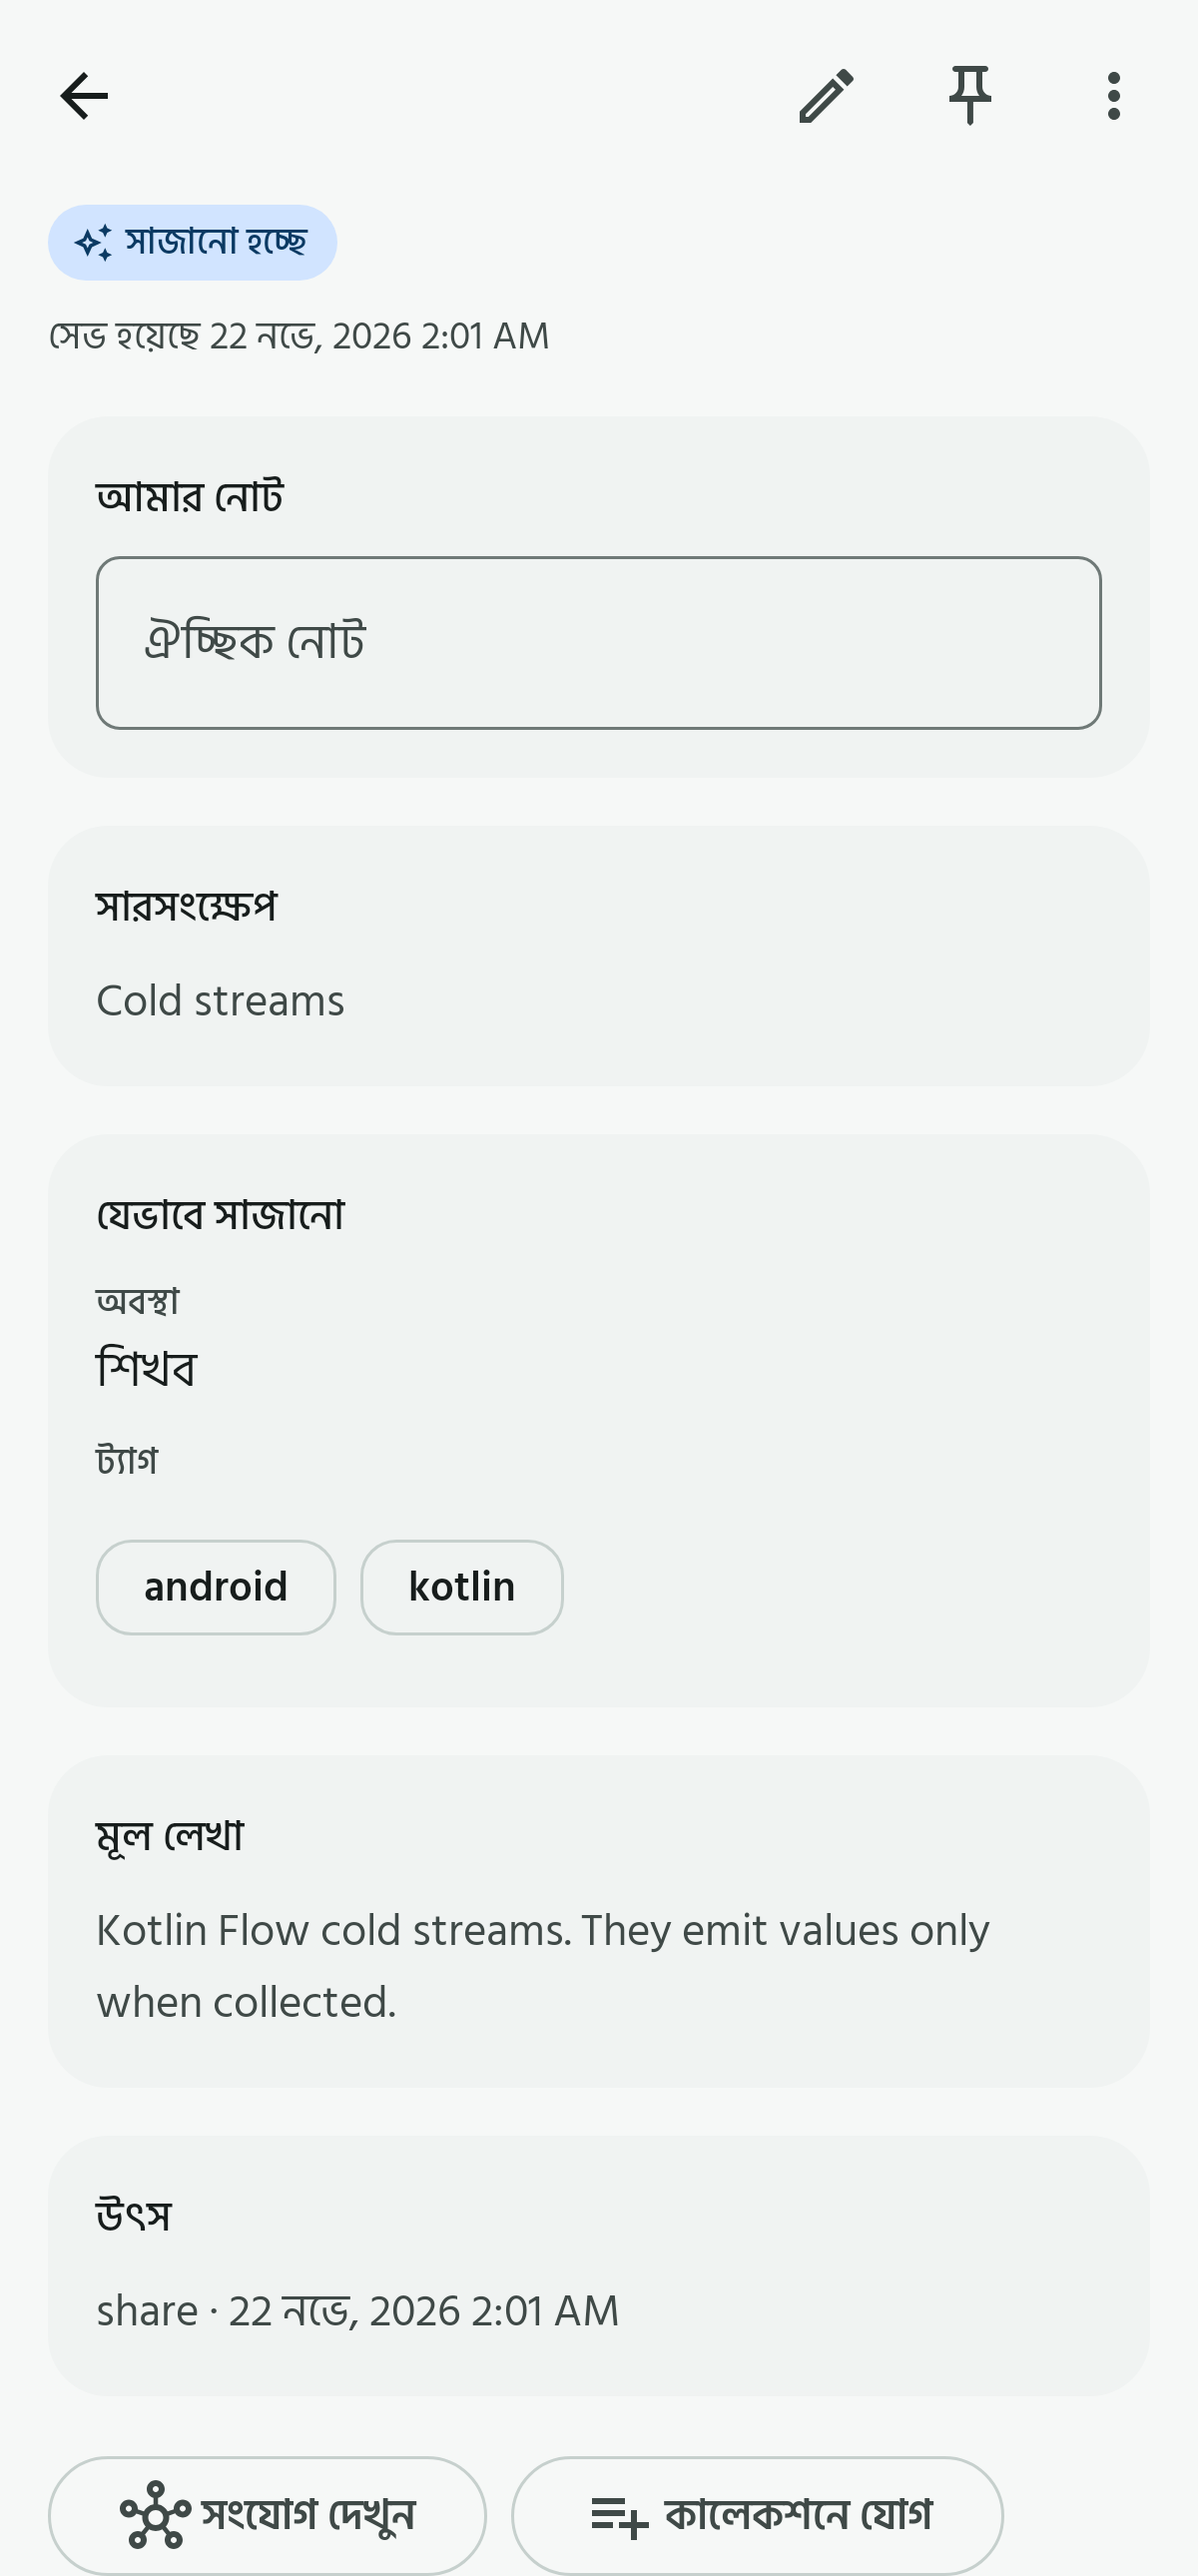
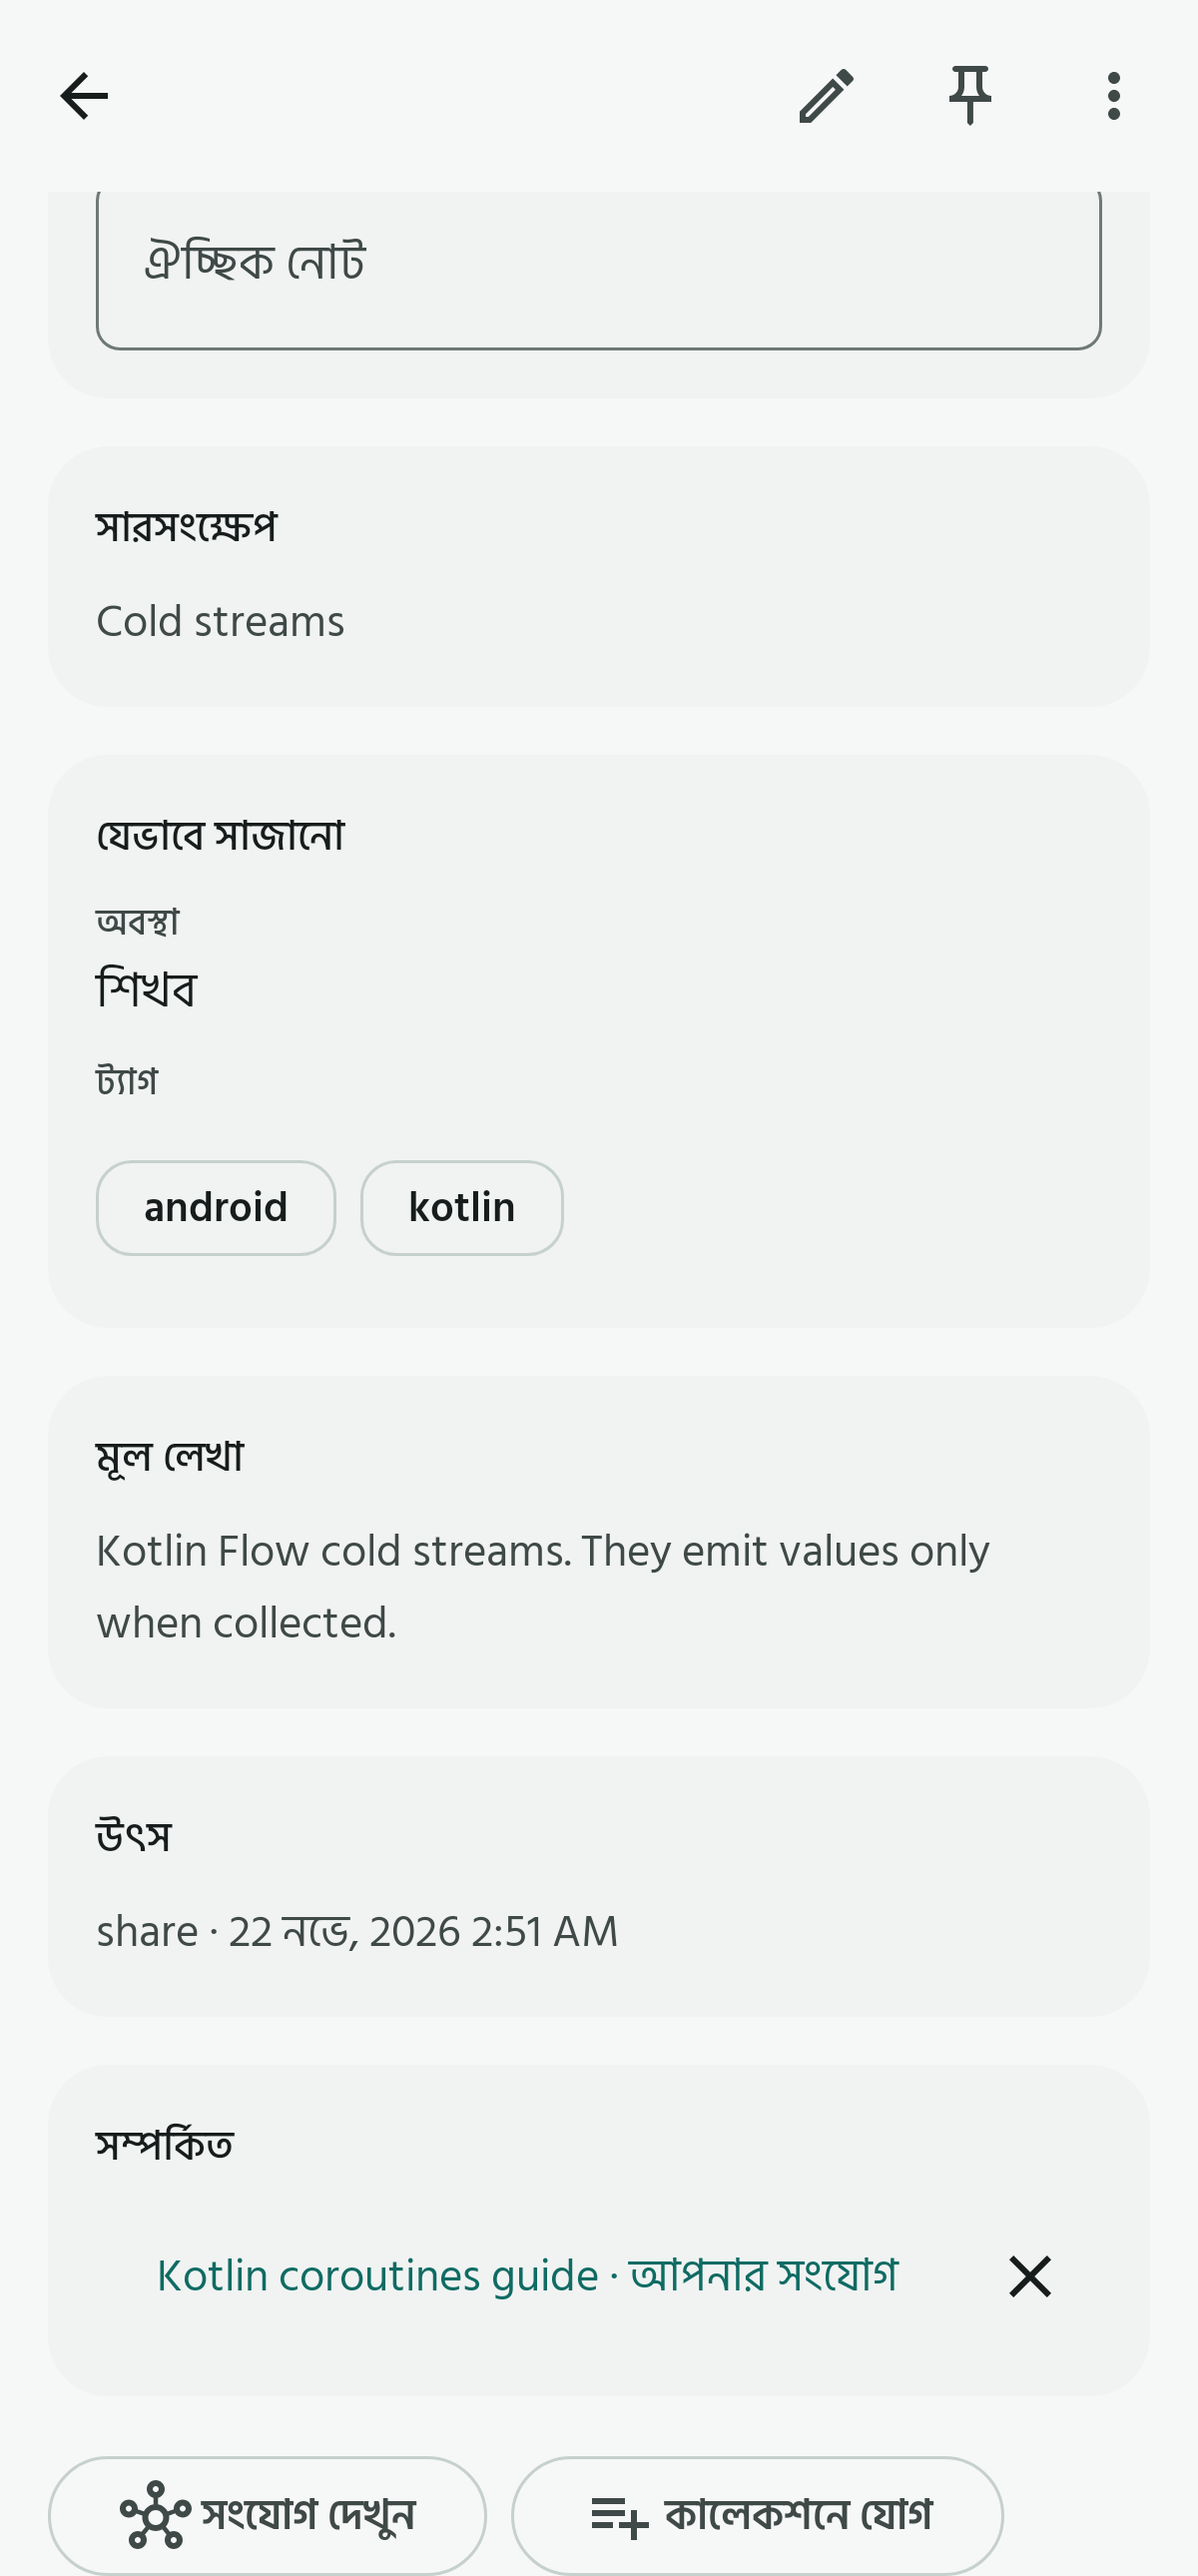
M6 verification: CI with tests/lint/screenshots/debug+release, version 0.6.0-m6, report cleanup
- CI: --continue tests, lint, Roborazzi screenshots, debug + unsigned release APKs; artifacts named pkos-<run>-*
- versionName 0.6.0-m6; README status/limitations
- m6-report: automated tests vs local builds vs real-device steps (reminders, SAF export, Gemini); limitations
- ScreenshotM6Test: wait for async related list before clicking (flaky timeout)

Claude-Session: https://claude.ai/code/session_015hHp7iCA9mZk2cc4Tywbh7

diff --git a/app/src/test/kotlin/com/pkos/app/ScreenshotM6Test.kt b/app/src/test/kotlin/com/pkos/app/ScreenshotM6Test.kt
@@ -39,7 +39,7 @@ class ScreenshotM6Test {
     @get:Rule val rule = createAndroidComposeRule<ComponentActivity>()
     private val dir = (System.getProperty("pkos.screenshots.dir") ?: "build/screenshots/m1").replace("m1", "m6")
     private fun shot(name: String) { rule.waitForIdle(); captureScreenRoboImage("$dir/$name.png") }
-    private fun waitFor(m: SemanticsMatcher) = rule.waitUntil(8_000) { rule.onAllNodes(m, useUnmergedTree = true).fetchSemanticsNodes().isNotEmpty() }
+    private fun waitFor(m: SemanticsMatcher) = rule.waitUntil(20_000) { rule.onAllNodes(m, useUnmergedTree = true).fetchSemanticsNodes().isNotEmpty() }
     private fun s(id: Int) = rule.activity.getString(id)
 
     @Before fun wm() = WorkManagerTestInitHelper.initializeTestWorkManager(rule.activity, Configuration.Builder().setExecutor(SynchronousExecutor()).build())
@@ -96,8 +96,9 @@ class ScreenshotM6Test {
         seeded()
         rule.onNodeWithTag("tab_inbox").performClick(); waitFor(hasText("Kotlin Flow basics"))
         rule.onAllNodes(hasText("Kotlin Flow basics"), useUnmergedTree = true)[0].performClick(); waitFor(hasTestTag("item_detail"))
+        waitFor(hasTestTag("item_related")) // related list loads async and moves the buttons; wait before scrolling/clicking
         rule.onNodeWithTag("item_connections").performScrollTo(); shot("m07_item_related_connections")
-        rule.onNodeWithTag("item_connections").performClick(); waitFor(hasTestTag("graph_canvas")); shot("m08_knowledge_graph")
+        rule.onNodeWithTag("item_connections").performClick(); waitFor(hasTestTag("connections_screen")); waitFor(hasTestTag("graph_canvas")); shot("m08_knowledge_graph")
     }
 
     @Test fun m09_exportAndSettings() {

diff --git a/docs/m6-report.md b/docs/m6-report.md
@@ -25,12 +25,60 @@ Found and fixed during regression: SQLite’s `integrity_check` needs write acce
 ## Privacy / cost
 Cloud calls (answers, embeddings) only with *Cloud AI* on and the owner’s own Gemini key; failures fall back to offline results silently. Notion integration, Drive backup, recovery, and owner-edited fields (field origins) are untouched.
 
-## Tests
-- `:core:notion` 56/56 · `:core:data` 93/93 (new `M6FeaturesTest` 12 + migration v6) · `:app` 53/53 (new `M6FlowTest` 7) · screenshots 43/43 (new `ScreenshotM6Test` 7 → 10 images in `docs/screenshots/m6`).
-- Lint: 0 errors (app + core:data). `assembleDebug` + `assembleRelease` OK.
+## Known limitations (M6 as shipped)
+- **Knowledge Chat is single-turn.** Each question is answered on its own; earlier questions in the conversation are not used as context, and the conversation is not saved (cleared when the screen closes).
+- **The knowledge graph is per item.** The Connections screen shows one item and its neighbours; there is no whole-library graph view.
+- **No import of the export ZIP.** The export is a portable copy (JSON/CSV/Markdown/files). Restoring the app itself uses the M5 encrypted Google Drive backup/restore; an export ZIP cannot be read back into PKOS.
+- Offline “meaning” search = related-word groups + spelling similarity; vector similarity needs cloud AI with the owner’s Gemini key.
+- Confirmed tasks stay inside PKOS (not sent to Notion or a calendar).
 
-## Needs a real phone
-1. Reminder notification appears (Android 13+ permission prompt), tap opens the item.
-2. Export to Downloads/Drive via the system picker; open CSV in a spreadsheet, Markdown in a notes app.
-3. With cloud AI + key: Ask gives cited Gemini answers; meaning search returns “Similar meaning” matches.
-4. Still pending from earlier milestones: M2 floating capture, M4 live Notion write, M5 real Drive backup + clean-install restore.
+## 1. Automated tests (run in the build sandbox, Robolectric/JVM — no emulator)
+Final full regression, 2026-11-22 02:58 (+06), clean build, `versionName 0.6.0-m6`:
+
+| Suite | Result | Includes |
+|---|---|---|
+| `:core:notion:test` | 56/56 ✅ | Notion schema guard, mapper, sync engine |
+| `:core:data:testDebugUnitTest` | 93/93 ✅ | `M6FeaturesTest` (12), `MigrationTest.v1ToV6KeepsExistingItems` (Room v1→v6 with schema validation), backup/restore 13, Notion sync, processing |
+| `:app:testDebugUnitTest` (flow tests) | 53/53 ✅ | `M6FlowTest` (7), AppFlowTest, BackupFlowTest, NotionFlowTest, ItemEditFlowTest … |
+| `:app:recordRoborazziDebug` (screenshot tests) | 43/43 ✅ | `ScreenshotM6Test` (7 tests → 10 images in `docs/screenshots/m6`) |
+
+Cloud paths (Gemini answers, embeddings) are tested only with fake HTTP replies and fake generators — never against the live API.
+Flaky fix during verification: `ScreenshotM6Test.m07_connections` failed once in a full run (timeout) because the item screen's related list loads asynchronously and shifted the “See connections” button; the test now waits for that list. It then passed 3/3 standalone runs and in the final full run.
+
+## 2. Local builds and static checks (build sandbox)
+- Lint: `:app:lintDebug`, `:core:data:lintDebug` — 0 errors ✅ (23 warnings in app, pre-existing kinds).
+- `:app:assembleDebug` (signed with the owner's local, untracked debug key) and `:app:assembleRelease` (unsigned) — both OK ✅ (`app-debug.apk` 0.6.0-m6-debug, `app-release-unsigned.apk` 0.6.0-m6).
+- CI (GitHub Actions, `.github/workflows/android.yml`): tests → lint → screenshots → debug + release APKs; artifacts
+  `pkos-<run>-debug-apk`, `pkos-<run>-release-unsigned-apk`, `pkos-<run>-screenshots`, `pkos-<run>-test-and-lint-reports`.
+  CI signs debug with the standard Android debug key; no signing key or secret is stored in GitHub.
+
+## 3. Real-device verification (NOT yet done — owner, on the phone)
+Install the debug APK (`com.pkos.app.debug`, version 0.6.0-m6-debug). None of the steps below has been performed yet.
+
+### A. Reminder notifications (opt-in)
+1. Settings → Knowledge tools: confirm *Forgotten knowledge reminders* is **off** on a fresh install.
+2. A reminder is only for an important item (pinned, high/critical priority, *To learn* or *To review*) not opened for 30 days. On a fresh library no item qualifies yet, so steps 4–5 can only be checked after 30 days of real use; steps 1, 3 and 6 can be checked now.
+3. Switch reminders **on** → on Android 13+ the notification-permission prompt appears. Allow it.
+4. The check runs once a day (WorkManager, first run about a day after switching on; there is no built-in “run now” button). Expected: one quiet “A save worth revisiting” notification; tapping it opens that item.
+5. Deny the permission (or turn reminders off) → no notification appears; Home shows no “Rediscover” section while off.
+6. Pass if: off by default, permission asked only when switched on, at most one notification per run, the same item does not come back before the chosen interval.
+
+### B. Export via the system file picker (SAF)
+1. Settings → Data → Export → keep *Include local-only items* **off**, *Include files* on → *Create export file*.
+2. Choose Downloads (and once Google Drive in the picker) → save `pkos-export-<date>.zip`.
+3. Expected message: “Export finished: N items, M files, K local-only items left out”.
+4. Open the ZIP in a file manager: `pkos-export.json`, `items.csv`, `markdown/`, `attachments/`, `integrity-report.json`.
+5. Open `items.csv` in Google Sheets/Excel (Bengali text must display correctly), a `.md` file in a notes app, and check that no local-only item and no token/key text appears anywhere.
+6. Cancel the picker once → nothing is written; the library is unchanged.
+7. *Check now* (integrity) → “All good …”.
+
+### C. Gemini integration (owner's own free-tier key)
+1. Settings → AI settings: save the key; Settings → *Cloud AI* on; Knowledge tools → *Search by meaning* on.
+2. Save 2–3 new normal items and wait for organizing (embeddings are made after processing, 10 per run).
+3. Search a synonym that is not in the text (e.g. “vehicle” for a “car” note) → result with the “Similar meaning” badge.
+4. Ask a question answered by those items → card “AI answer · from your items” with [n] sources that open the item.
+5. Mark one item *local-only*, ask about it → it must not appear in a cloud answer; the note “1 local-only item(s) were not sent” appears.
+6. Ask something not in the library → “No answer found in your saved knowledge”.
+7. Turn Cloud AI off or airplane mode → search and Ask still work (on-phone answer). No paid service is used at any point.
+
+Still pending from earlier milestones: M2 floating capture, M4 live Notion write, M5 real Drive backup + clean-install restore.

diff --git a/README.md b/README.md
@@ -5,11 +5,14 @@ organized by hybrid AI → encrypted Google Drive backup → synced to the owner
 Master Database. Specification: *Personal Knowledge OS Master Build Specification v1.0*.
 
 ## Status
+Current version: **0.6.0-m6** (`versionName`; debug build shows `0.6.0-m6-debug`, app id `com.pkos.app.debug`).
+
 See [CHECKLIST.md](CHECKLIST.md). Done: M1 app shell ([report](docs/m1-report.md)) · M2 capture ([report](docs/m2-report.md)) ·
 M3 processing ([report](docs/m3-report.md)) · M4 Notion integration ([report](docs/m4-report.md)) ·
 **M5 encrypted Drive backup — built & tested, real-Drive verification pending** ([report](docs/m5-report.md), [guide](docs/backup-restore-guide.md)) ·
-**M6 search & advanced features — built & tested, phone checks pending** ([report](docs/m6-report.md)): offline FTS + meaning search, cited Ask,
+**M6 search & advanced features — automated tests and local builds pass; real-device checks (reminders, export picker, Gemini) not yet done** ([report](docs/m6-report.md#3-real-device-verification-not-yet-done--owner-on-the-phone)): offline FTS + meaning search, cited Ask,
 knowledge graph, topic de-duplication, recommendations, timeline, confirm-first tasks, opt-in reminders, smart collections, zip export + integrity check.
+Limitations: single-turn Ask, per-item graph only, no import of the export ZIP (restore = M5 Drive backup).
 
 ## Modules
 | Module | Type | Purpose |
@@ -24,11 +27,15 @@ Requirements: JDK 17+ (21 used), Android SDK with `platforms;android-37.2` and `
 ```bash
 echo "sdk.dir=/path/to/android-sdk" > local.properties
 ./gradlew :app:assembleDebug                 # APK → app/build/outputs/apk/debug/app-debug.apk
+./gradlew :app:assembleRelease               # unsigned → app/build/outputs/apk/release/app-release-unsigned.apk
 ./gradlew :core:notion:test :core:data:testDebugUnitTest :app:testDebugUnitTest
-./gradlew :app:lintDebug
-./gradlew :app:recordRoborazziDebug          # screenshots → docs/screenshots/m1..m5/
+./gradlew :app:lintDebug :core:data:lintDebug
+./gradlew :app:recordRoborazziDebug          # screenshots → docs/screenshots/m1..m6/
 ```
 Offline check of the Notion core only: `./scripts/verify-core-notion.sh`.
+
+CI (GitHub Actions) runs the same tests, lint, screenshots and debug + release builds on every push; artifacts:
+`pkos-<run>-debug-apk`, `pkos-<run>-release-unsigned-apk`, `pkos-<run>-screenshots`, `pkos-<run>-test-and-lint-reports`.
 
 ## Install on a phone
 Enable *Install unknown apps* for your file manager, open `app-debug.apk`. The debug build installs as

diff --git a/CHECKLIST.md b/CHECKLIST.md
@@ -14,7 +14,7 @@ Status legend: ✅ done & tested · 🟡 partly done · ⬜ not started · 🔒 
 | R-08 | Offline support | 🟡 | Capture, extraction, OCR, local classification, search offline (tested); Notion queue waits for network (WorkManager constraint); backup queue in M5 |
 | R-09 | No silent paid usage | ✅ | Cloud AI off by default, owner key only, quota/429 → local fallback, never paid |
 | R-10 | Export & recovery | 🟡 | M6: zip export (JSON/CSV/Markdown/attachments + SHA-256 report, local-only opt-in, no secrets) + local integrity check, tested; recovery = M5 encrypted restore. No export-zip import. Real-phone file-picker check pending |
-| R-11 | 10 advanced features | 🟡 | M6: all 10 implemented & tested (docs/m6-report.md). Limits: offline “meaning” = related words + spelling (vectors only with cloud key), graph is per-item, chat single-turn; reminders and cloud paths need phone verification |
+| R-11 | 10 advanced features | 🟡 | M6: all 10 implemented & tested (docs/m6-report.md). Limits: offline “meaning” = related words + spelling (vectors only with cloud key), graph is per-item, chat single-turn; reminders, SAF export and Gemini paths not yet verified on a phone |
 | R-12 | Premium UX | 🟡 | M1 shell done: navigation, onboarding, 10 screens, design system, bn/en, dark mode, large font; 24 screenshots, 17 UI tests |
 
 ## Build environment
@@ -23,6 +23,9 @@ Status legend: ✅ done & tested · 🟡 partly done · ⬜ not started · 🔒 
 - No emulator (no KVM): UI verified with Robolectric Compose tests and Roborazzi screenshots; device install by owner.
 
 ## Last verified checkpoint
+2026-11-22 02:58 (+06) — M6 verification, v0.6.0-m6, clean build: :core:notion 56/56, :core:data 93/93 (incl. migration v1→v6),
+:app 53/53, screenshots 43/43, lint 0 errors, assembleDebug + assembleRelease OK. Real-device M6 checks not done yet (docs/m6-report.md §3).
+
 2026-11-22 — M6 search & advanced features (DB v6): :core:notion 56/56, :core:data 93/93, :app 53/53, screenshots 43/43
 (M6: 10 images), lint 0 errors, debug + release build. Report: docs/m6-report.md.
 
